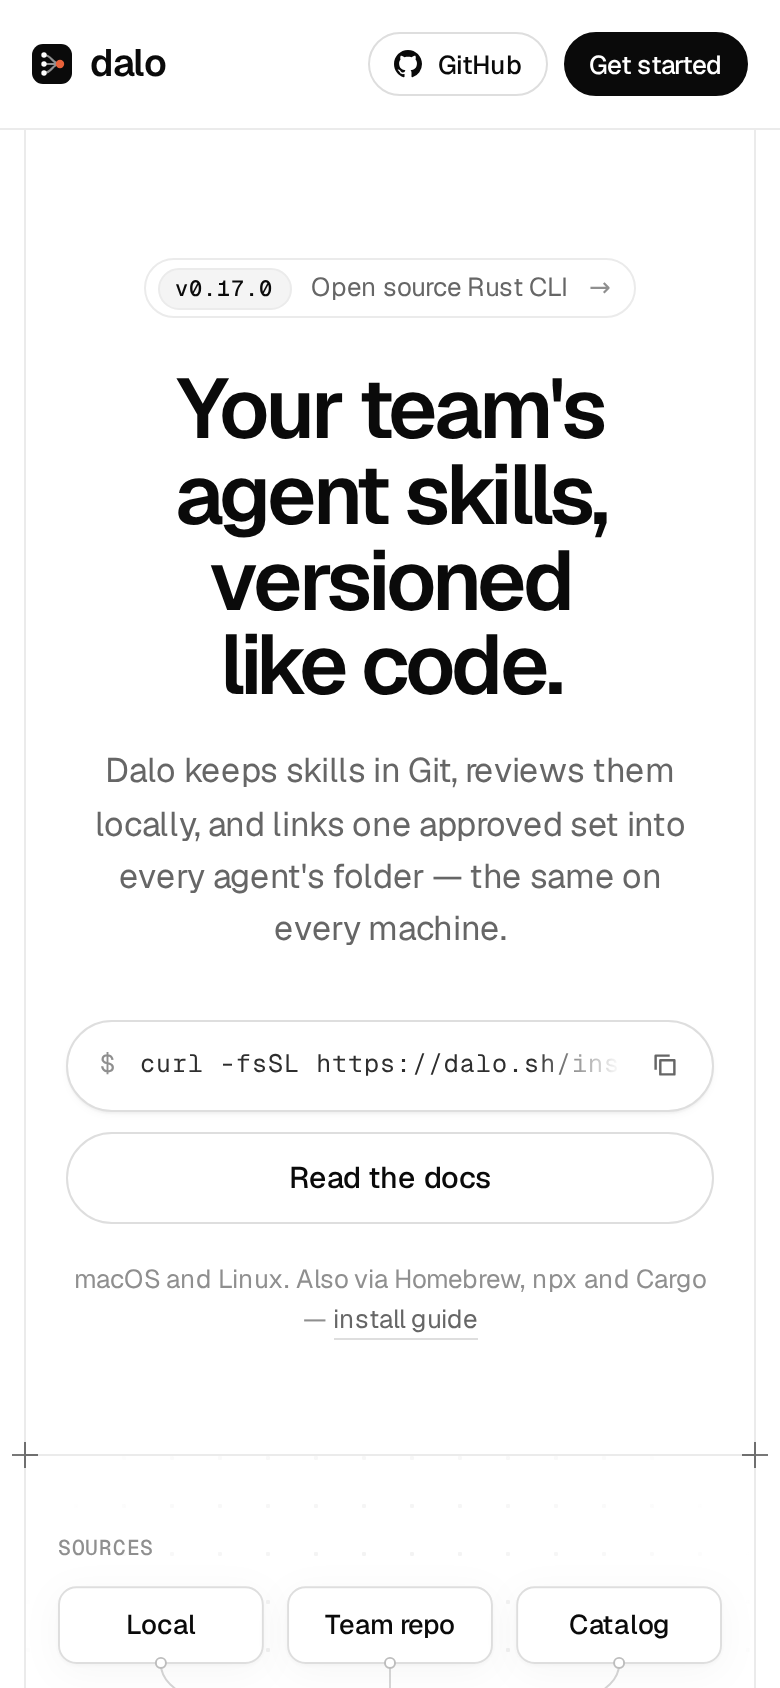
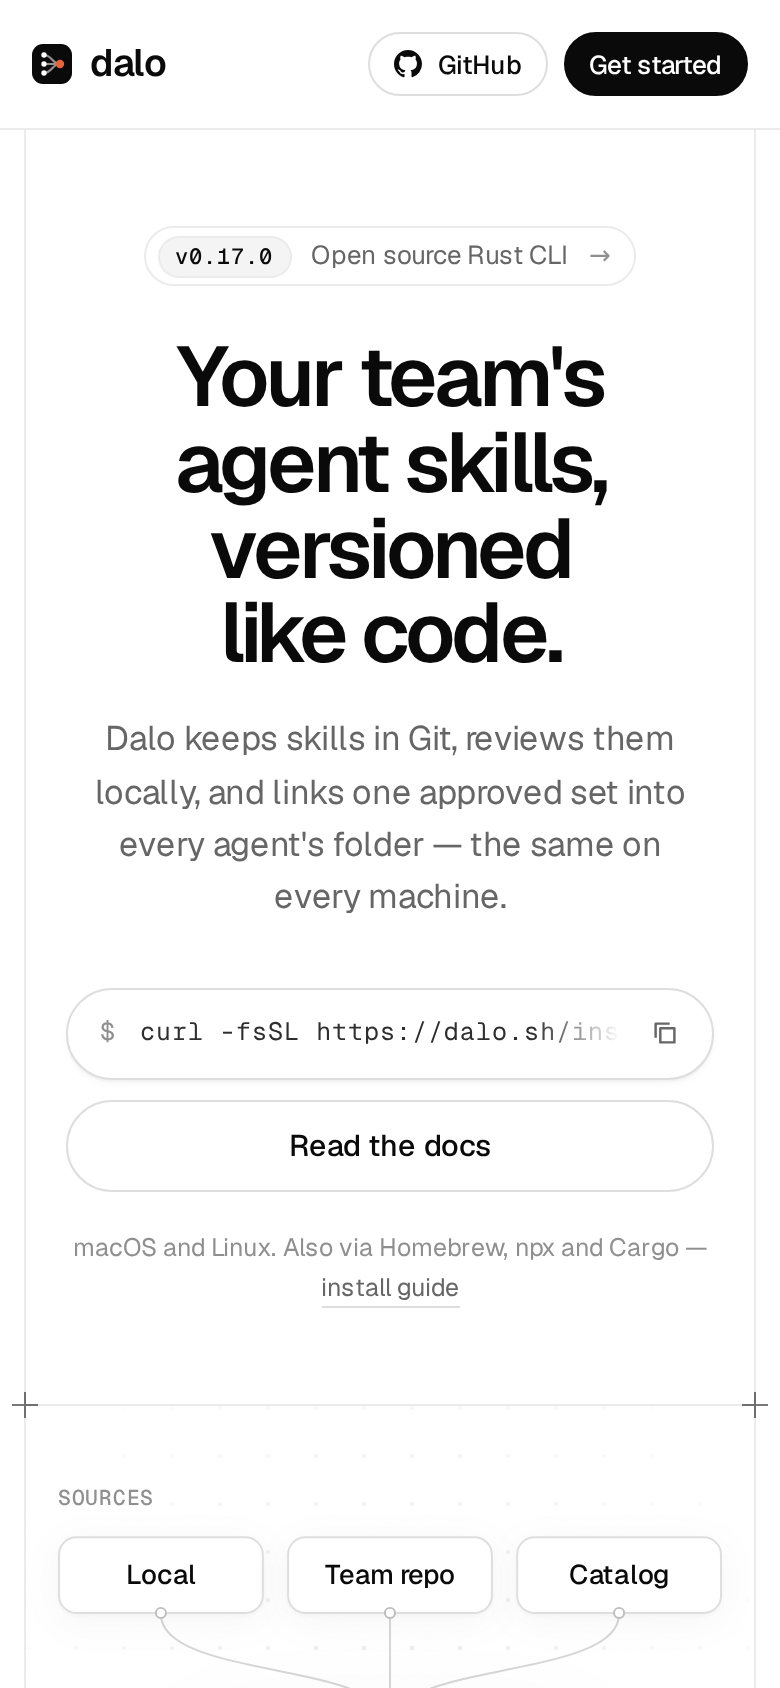
docs(design): add monochrome homepage concept
Claude-Session: https://claude.ai/code/session_01LLzwYXJYwYFRLz2bkiv4nZ

diff --git a/design/homepage-concepts/01-monochrome/index.html b/design/homepage-concepts/01-monochrome/index.html
@@ -235,7 +235,7 @@ h2 { margin: 0; font-size: clamp(32px, 3.6vw, 44px); line-height: 1.08; font-wei
 .qs-copy .more { display: inline-flex; align-items: center; gap: 6px; margin-top: 28px; font-size: 14px; font-weight: 500; color: var(--ink); }
 .qs-copy .more span { transition: transform .15s; }
 .qs-copy .more:hover span { transform: translateX(3px); }
-.qs-code { padding: 64px var(--pad); min-width: 0; background: var(--fill); display: flex; align-items: center; }
+.qs-code { padding: 64px 40px; min-width: 0; background: var(--fill); display: flex; align-items: center; }
 .term { width: 100%; min-width: 0; background: #fff; border: 1px solid var(--line-2); border-radius: 12px; overflow: hidden; box-shadow: 0 1px 1px rgba(0,0,0,.03), 0 12px 32px -12px rgba(0,0,0,.10); }
 .term-h { display: flex; align-items: center; height: 42px; padding: 0 8px 0 16px; border-bottom: 1px solid var(--line); font: 400 12px/1 var(--mono); color: var(--faint); }
 .term-h .dots { display: flex; gap: 6px; margin-right: 14px; }
@@ -248,12 +248,12 @@ h2 { margin: 0; font-size: clamp(32px, 3.6vw, 44px); line-height: 1.08; font-wei
 .term .ok { color: var(--ink); font-weight: 500; }
 
 /* ── Agents ────────────────────────────────────────── */
-.agents { display: grid; grid-template-columns: repeat(6, 1fr); }
-.ag { padding: 28px 24px 26px; min-width: 0; transition: background .2s; }
+.agents { display: grid; grid-template-columns: 1fr 1fr 1fr 1fr 1.25fr 1fr; }
+.ag { padding: 28px 22px 26px; min-width: 0; transition: background .2s; }
 .ag + .ag { border-left: 1px solid var(--line); }
 .ag:hover { background: var(--fill); }
 .ag b { display: block; font-size: 16px; font-weight: 600; letter-spacing: -.02em; }
-.ag code { display: block; margin-top: 8px; font-size: 11.5px; color: var(--faint); white-space: nowrap; overflow: hidden; text-overflow: ellipsis; }
+.ag code { display: block; margin-top: 8px; font-size: 11px; color: var(--faint); white-space: nowrap; overflow: hidden; text-overflow: ellipsis; }
 .agents-head { display: flex; align-items: baseline; justify-content: space-between; gap: 24px; padding: 56px var(--pad) 28px; }
 .agents-head h2 { font-size: clamp(24px, 2.4vw, 28px); letter-spacing: -.03em; }
 .agents-head p { margin: 0; color: var(--muted); font-size: 15px; }
@@ -303,7 +303,8 @@ h2 { margin: 0; font-size: clamp(32px, 3.6vw, 44px); line-height: 1.08; font-wei
   .frame { width: calc(100% - 24px); }
   .top .frame { width: 100%; border: 0; }
   .top .frame { padding: 0 16px; }
-  .hero { padding: 64px var(--pad) 56px; }
+  .hero { padding: 48px var(--pad) 48px; }
+  .also { font-size: 12.5px; }
   h1 { font-size: 42px; letter-spacing: -.045em; margin-top: 24px; }
   .lede { font-size: 17px; margin-top: 18px; }
   .ctas { margin-top: 32px; flex-direction: column; align-items: stretch; gap: 10px; }
@@ -323,13 +324,15 @@ h2 { margin: 0; font-size: clamp(32px, 3.6vw, 44px); line-height: 1.08; font-wei
   .term pre { font-size: 12px; padding: 16px; }
   .agents { grid-template-columns: repeat(2, 1fr); }
   .ag { padding: 22px 18px; }
+  .ag code { white-space: normal; overflow-wrap: anywhere; line-height: 1.5; }
   .ag:nth-child(n) { border-left: 0; border-top: 1px solid var(--line); }
   .ag:nth-child(even) { border-left: 1px solid var(--line); }
   .ag:nth-child(-n+2) { border-top: 0; }
   .agents-head { padding: 48px var(--pad) 24px; }
   .cta { padding: 80px var(--pad) 72px; }
   .cta .ctas { align-items: stretch; }
-  .facts { flex-direction: column; align-items: center; gap: 12px; }
+  .facts { flex-direction: column; align-items: center; gap: 12px; margin-top: 40px; }
+  .facts li::before { display: none; }
   .foot .frame { flex-direction: column; align-items: flex-start; padding: 28px 24px 36px; }
 }
 @media (prefers-reduced-motion: reduce) {
@@ -551,7 +554,7 @@ h2 { margin: 0; font-size: clamp(32px, 3.6vw, 44px); line-height: 1.08; font-wei
     <div class="qs-copy">
       <p class="eyebrow">Quickstart</p>
       <h2 id="qs-h">Three steps to a synced team.</h2>
-      <p class="sub">Link your agents, add the team repository, sync. Prefix any command with <code>--dry-run</code> to preview it.</p>
+      <p class="sub">Link your agents, add the team repository, sync. Add <code>--dry-run</code> to preview any change first.</p>
       <a class="more" href="/docs/">Read the quickstart <span aria-hidden="true">→</span></a>
     </div>
     <div class="qs-code">
@@ -586,7 +589,7 @@ dalo sync</span>
     <span class="plus l"></span><span class="plus r"></span>
     <div class="agents-head">
       <h2 id="ag-h">Works with the agents you already run.</h2>
-      <p>Dalo writes symlinks into the folders they already read.</p>
+      <p>Plain symlinks, in the folders each agent already reads.</p>
     </div>
     <div class="row agents">
       <span class="plus l"></span><span class="plus r"></span>
